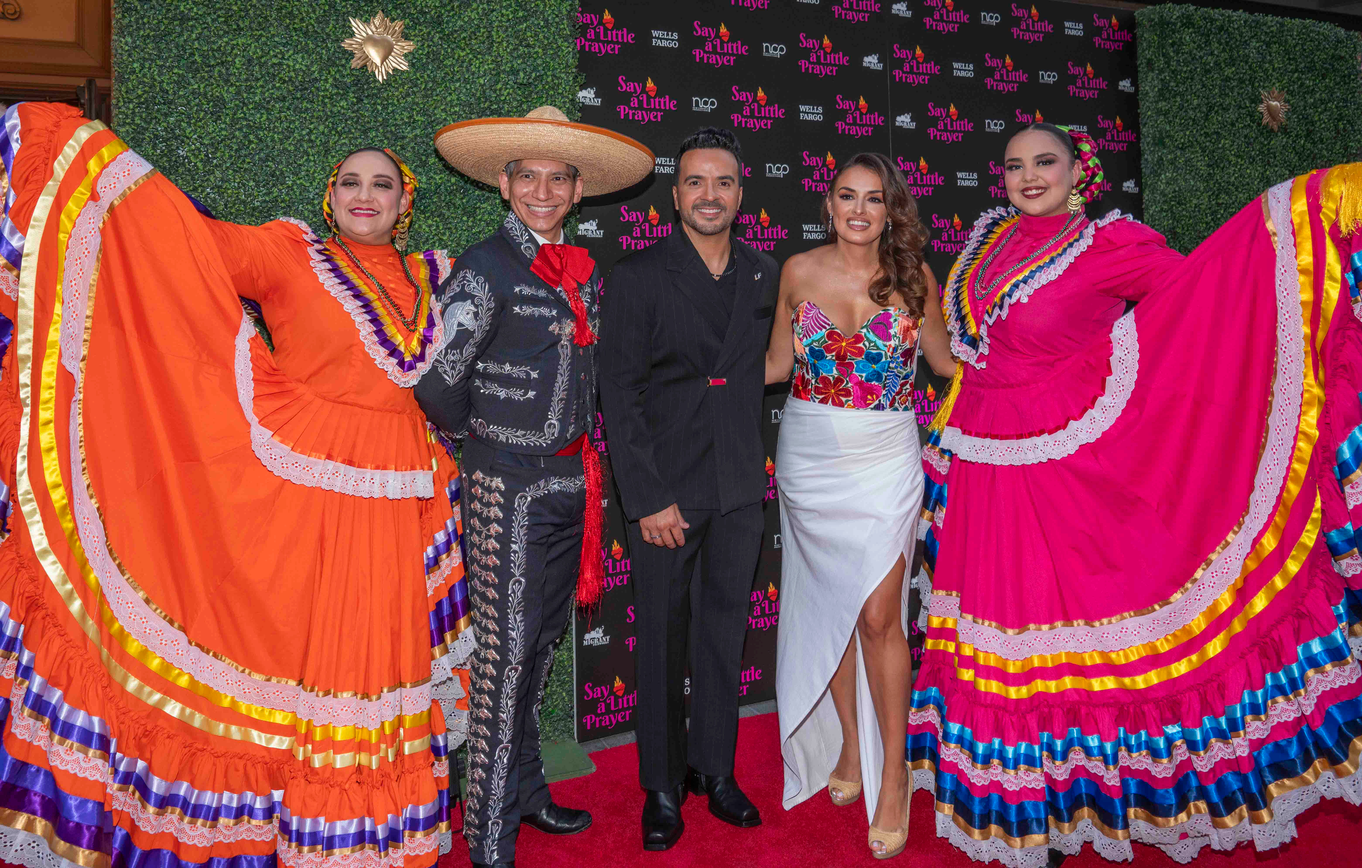
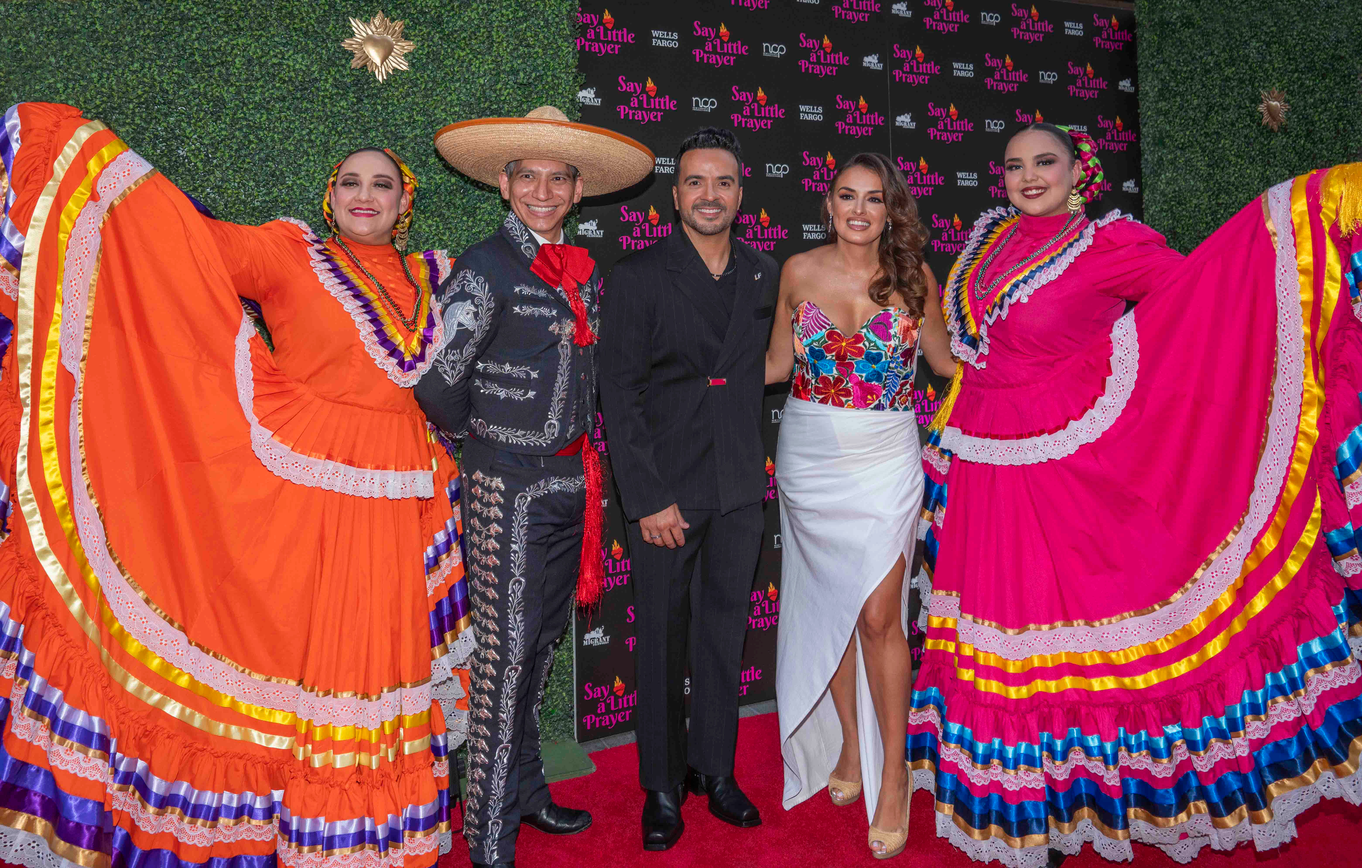
luis fonsi pic

Changed region(s): [[0.0, 0.0, 0.0937, 0.1557], [0.8432, 0.0, 1.0, 0.0934]]

diff --git a/heroscroll.js b/heroscroll.js
@@ -1,6 +1,6 @@
 
   const images = [
-    "images/Photo 1 Luis Fonsi.jpg",
+    "images/HP_PIC_1.jpg",
     "images/Photo 2 Missions.JPG",
     "images/Photo 3 Kansas City.jpg",
     "images/Photo 4 SA300.jpg",
